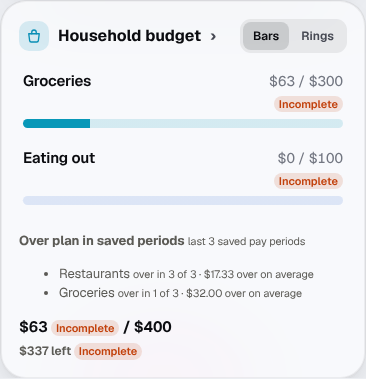
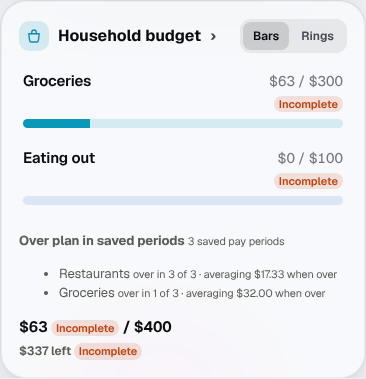
Trends wording: "averaging $X when over", an accurate heading count
The four non-blocking items from the lead's #1390 record:
- The average per category reads "averaging $X when over". "$X over on
  average" could read as an average across every counted period.
- The heading says "n saved pay periods", the qualifying closes used,
  not "last n".
- The categorySpendingTrends comment no longer describes reading the
  stored overspend. It says the amount is worked out from saved planned
  and spent. The payday-carryover comment moves back above its function.
- The after-ready screenshots are regenerated on the new wording,
  from invented closes saved in the real shape (overspend null, trust
  calculated). The after-few images are unchanged byte for byte.

Display wording only: no figure, trust tag or label moves.

Claude-Session: https://claude.ai/code/session_01B4JZczKoMaQZEssfxJayKS

Changed region(s): [[0.5109, 0.6966, 0.9317, 0.7836], [0.5109, 0.6095, 0.8415, 0.6675]]

diff --git a/public/forecast.js b/public/forecast.js
@@ -18391,20 +18391,16 @@
     return views;
   }
 
-  // Chronological projection of completed-period Payday carryover. Copies
-  // the incumbent pastPeriodViews carryover fields; does not call
-  // paydayBoundaryCash, invent $0, interpolate, or treat unknown as cash.
-  // Oldest payday first so the household can see whether leftover at payday
-  // has generally risen or fallen. Not income, savings, or a second engine.
   // Where the household consistently goes over plan (owner direction, Dale,
-  // 2026-11-18). Read from saved closes only: each figure is the stored
-  // per-category `overspend` (spent over plan, computed at that close). Nothing
-  // is recomputed, rebuilt or estimated. A close qualifies only when it was
-  // complete at capture (closingState 'complete-at-capture': whole-period
-  // evidence, no completeness reason). One close per period (the first, as in
-  // the reprint). The latest `window` qualifying closes are used; with fewer
-  // than `minimum` there is no trend, only the count. Informational rows and
-  // rows whose stored overspend is not a number are not counted.
+  // 2026-11-18; lead ruling option C). Read from saved closes only. A saved
+  // lookback row stores overspend null, so each over-plan amount is worked
+  // out here as max(0, spent - planned) from the saved row's numbers, on
+  // usable rows only (categoryTrendRow). Nothing is rebuilt from the ledger or
+  // estimated. A close qualifies only when it was complete at capture
+  // (closingState 'complete-at-capture') and has at least one usable row. One
+  // close per period (the first captured, as in the reprint). The latest
+  // `window` qualifying closes are used; with fewer than `minimum` there is
+  // no trend, only the count.
   const CATEGORY_TREND_WINDOW = 6;
   const CATEGORY_TREND_MINIMUM = 3;
   // A saved category row the trend can use: its plan and spend are stored
@@ -18472,6 +18468,11 @@
     return { ...base, status: 'ready', trust: 'calculated', categories, reason: null };
   }
 
+  // Chronological projection of completed-period Payday carryover. Copies
+  // the incumbent pastPeriodViews carryover fields; does not call
+  // paydayBoundaryCash, invent $0, interpolate, or treat unknown as cash.
+  // Oldest payday first so the household can see whether leftover at payday
+  // has generally risen or fallen. Not income, savings, or a second engine.
   function planPaydayCarryoverTrend(views) {
     const points = [];
     for (let i = 0; i < (views || []).length; i++) {

diff --git a/test/test-category-spending-trends.js b/test/test-category-spending-trends.js
@@ -107,7 +107,7 @@ const fuel = (planned, spent, tags) => ['fuel', 'Fuel', planned, spent, tags];
   const row = id => r.categories.find(c => c.id === id);
   ok(r.status === 'ready' && r.trust === 'calculated' && r.periodsUsed === 3, 'three qualifying closes: a calculated trend');
   ok(row('fuel').periodsOver === 2 && row('fuel').periodsCounted === 3 && row('fuel').averageOverspend === 15.01,
-    'Fuel: over in 2 of 3, 15.01 over on average, worked out from saved planned and spent');
+    'Fuel: over in 2 of 3, averaging 15.01 when over, worked out from saved planned and spent');
   ok(row('groceries').periodsOver === 0 && row('groceries').averageOverspend === null, 'Groceries: never over, no average');
   ok(row('eating-out').periodsCounted === 1 && row('eating-out').periodsOver === 1 && row('eating-out').averageOverspend === 5,
     'Eating out: a missing row and a carried (estimated) plan are not counted');
@@ -154,7 +154,9 @@ const fuel = (planned, spent, tags) => ['fuel', 'Fuel', planned, spent, tags];
   context.ctx = { advice, asOf: '2030-06-10', plan: today.data.plan };
   const html = vm.runInContext('budgetCategoryTrendsHtml(ctx)', context);
   ok(/data-budget-category-trends="ready"/.test(html) && /Fuel/.test(html) && /over in 2 of 3/.test(html)
-    && /\$12\.50 over on average/.test(html), 'the page lists Fuel: over in 2 of 3, $12.50 over on average');
+    && /averaging \$12\.50 when over/.test(html), 'the page lists Fuel: over in 2 of 3, averaging $12.50 when over');
+  ok(/<small>3 saved pay periods<\/small>/.test(html) && !/last \d+ saved pay periods/.test(html) && !/over on average/.test(html),
+    'the heading counts the saved pay periods used, and no line reads as an average over every period');
   ok(!/Groceries/.test(html), 'a category never over plan is not listed');
   ok(!/≈|estimated/.test(html), 'no estimate mark: the figures are calculated from saved closes');
   context.ctx = { advice: { categorySpendingTrends: F.categorySpendingTrends(history.slice(0, 1)) } };

diff --git a/public/plan.js b/public/plan.js
@@ -6062,9 +6062,9 @@ function budgetCategoryTrendsHtml(ctx) {
   const count = value => (Number.isInteger(value) && value >= 0 ? value : null);
   const over = (trends.categories || []).filter(row => row && count(row.periodsOver) > 0 && count(row.periodsCounted) != null);
   const n = count(trends.periodsUsed);
-  const items = over.map(row => `<li data-budget-category-trend="${budgetBrowseEscape(row.id)}"><span>${budgetBrowseEscape(row.label || row.id)}</span> <small>over in ${count(row.periodsOver)} of ${count(row.periodsCounted)} · ${budgetBrowseMoney(row.averageOverspend, row.trust)} over on average</small></li>`).join('');
+  const items = over.map(row => `<li data-budget-category-trend="${budgetBrowseEscape(row.id)}"><span>${budgetBrowseEscape(row.label || row.id)}</span> <small>over in ${count(row.periodsOver)} of ${count(row.periodsCounted)} · averaging ${budgetBrowseMoney(row.averageOverspend, row.trust)} when over</small></li>`).join('');
   return `<div class="budget-browse-note" data-budget-category-trends="ready">
-    <p><strong>Over plan in saved periods</strong> <small>last ${n} saved pay periods</small></p>
+    <p><strong>Over plan in saved periods</strong> <small>${n} saved pay periods</small></p>
     ${items ? `<ul class="budget-category-trends">${items}</ul>` : '<p><small>No category went over plan.</small></p>'}</div>`;
 }
 
